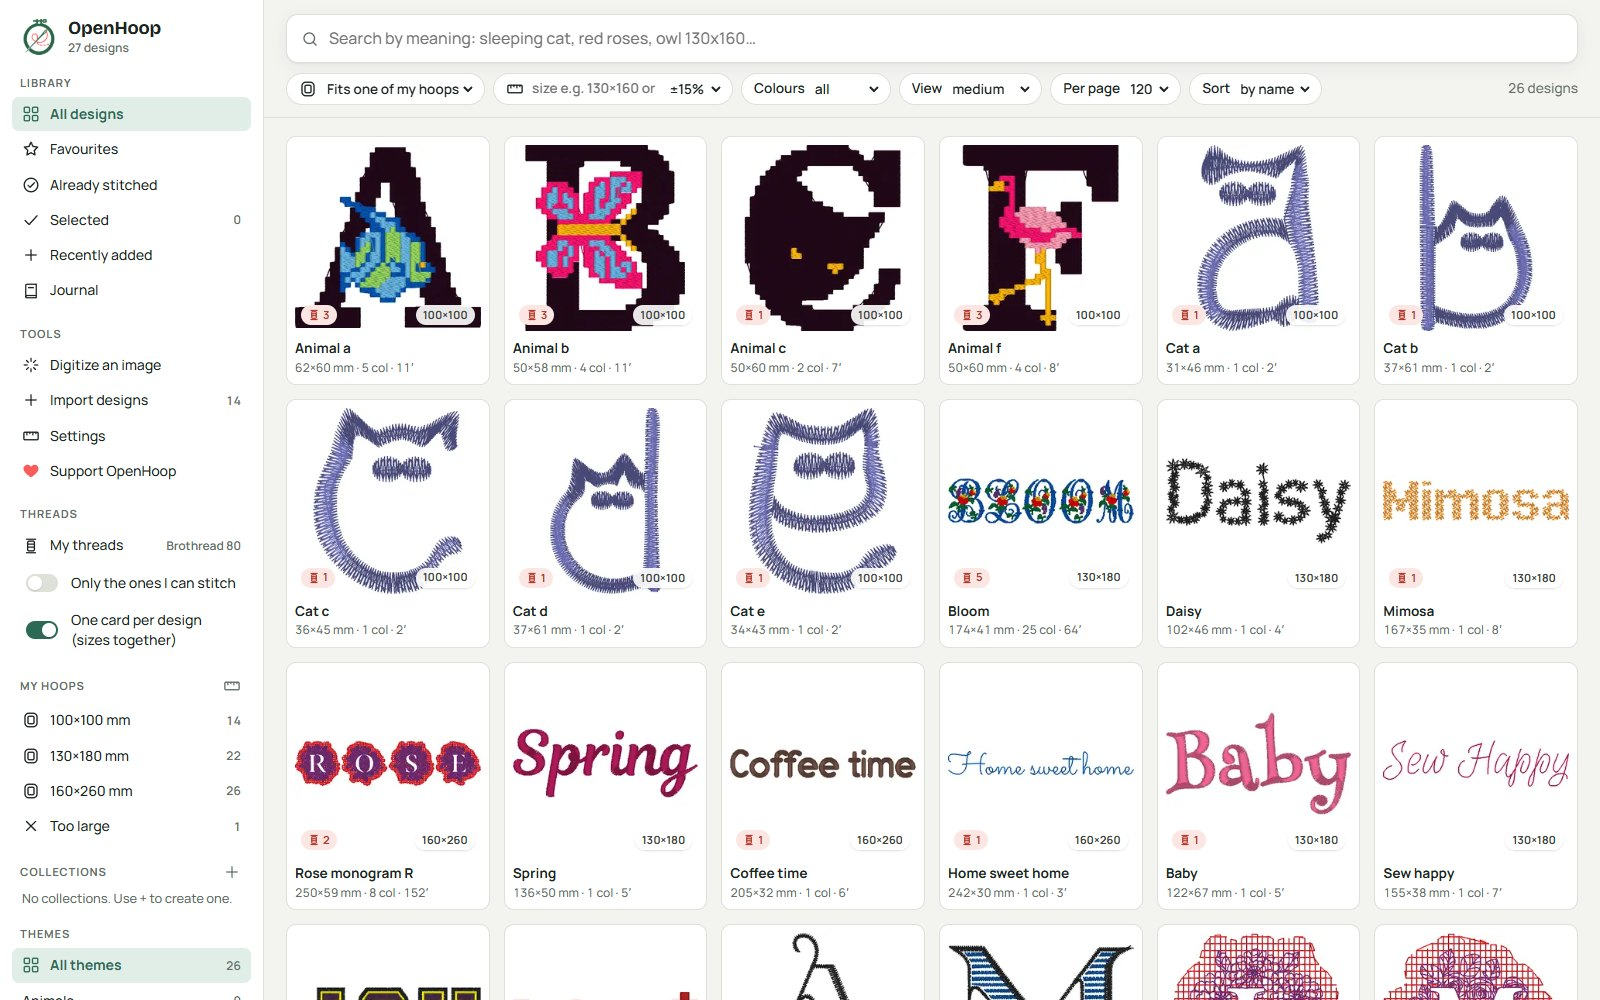
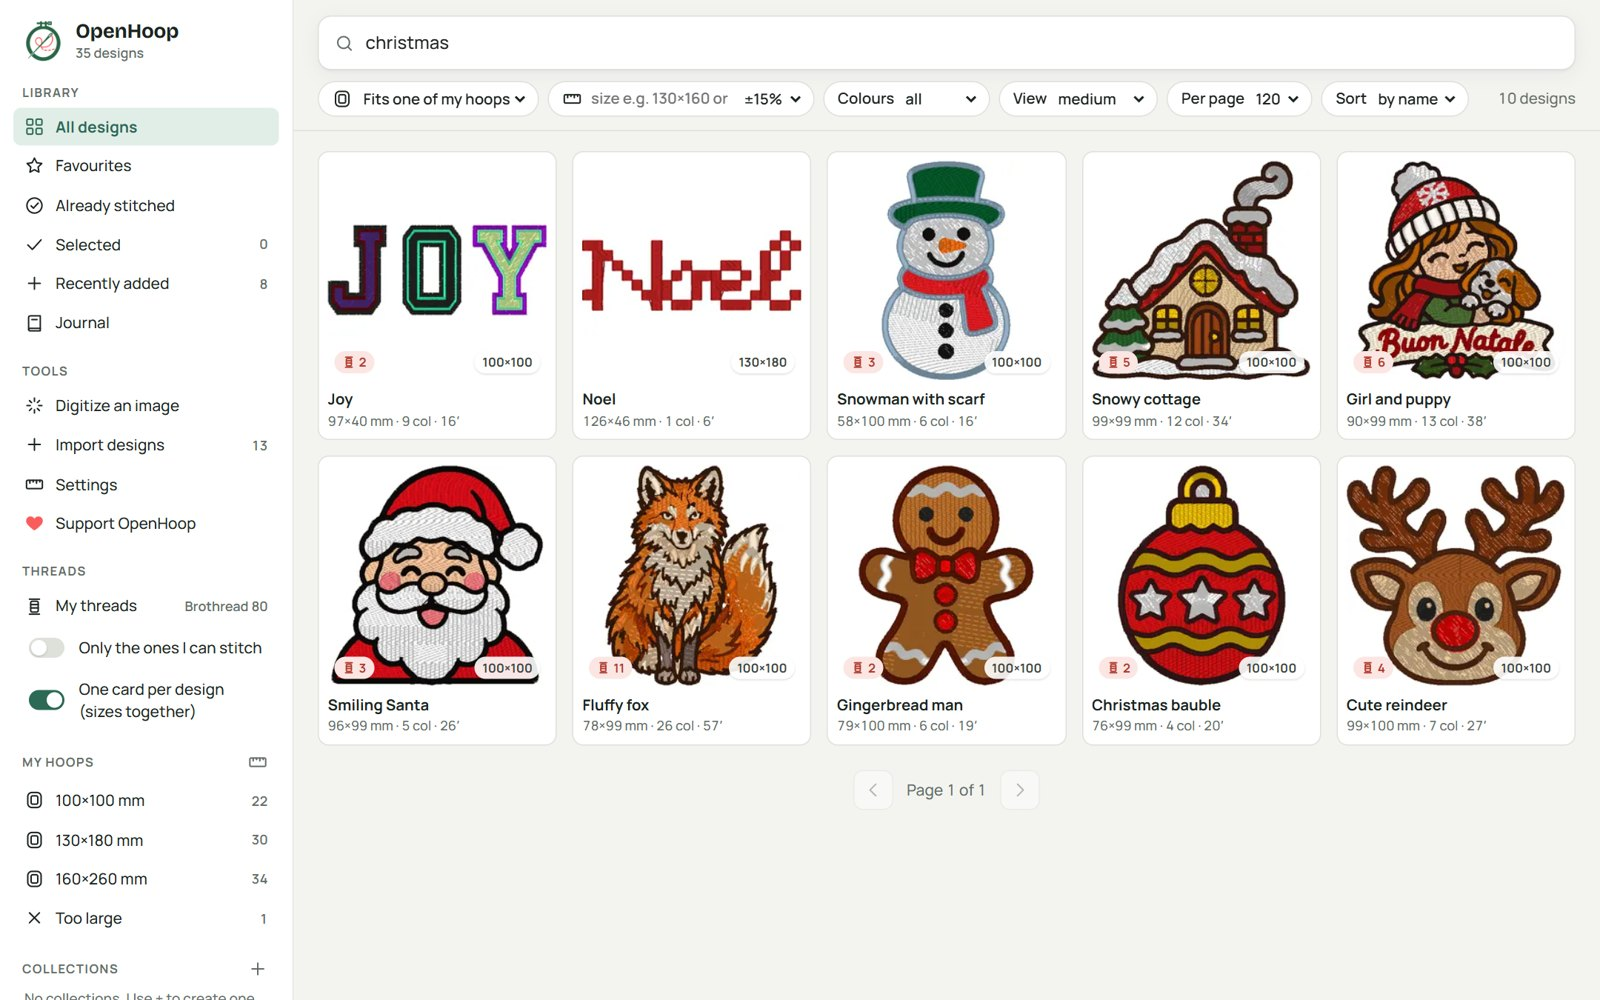
README: animated demo, new library screenshot

diff --git a/README.md b/README.md
@@ -4,7 +4,11 @@
 Tidy up years of downloads, find any design in seconds, and send it to your machine in the right format.<br>
 <i>English · Italiano · Français · Español</i></p>
 
-<p align="center"><a href="https://ko-fi.com/openhoop">☕ Support OpenHoop on Ko-fi</a></p>
+<p align="center"><a href="https://github.com/lelus78/OpenHoop/releases/latest"><b>⬇ Download for Windows (free)</b></a> ·
+<a href="https://ko-fi.com/openhoop">☕ Support OpenHoop on Ko-fi</a></p>
+
+<p align="center"><img src="docs/screenshots/demo.gif" alt="Search «christmas», open a design, point at a part and click to try another thread: the reindeer's antlers turn gold" width="860"><br>
+<sub>Search by meaning, open a design, point at a part and click to try another thread. All designs shown were made with OpenHoop's own digitizer.</sub></p>
 
 ---
 
@@ -65,7 +69,7 @@ From version 1.0.1 OpenHoop tells you when a new version is out and **updates it
 | <img src="docs/screenshots/patch_maker.jpg" alt="Patch maker" width="400"> | <img src="docs/screenshots/digitizer.jpg" alt="Digitizer" width="400"> |
 | **Stitch-by-stitch simulation** | **Settings: folders, machine, hoops** |
 | <img src="docs/screenshots/simulation.jpg" alt="Stitch simulation" width="400"> | <img src="docs/screenshots/settings.jpg" alt="Settings" width="400"> |
-| **Your library, sorted by theme** | **Import: filters, attachments, duplicates flagged** |
+| **Your library: search by meaning** | **Import: filters, attachments, duplicates flagged** |
 | <img src="docs/screenshots/library.jpg" alt="Library grid" width="400"> | <img src="docs/screenshots/import.jpg" alt="Import page with filters" width="400"> |
 | **Duplicates side by side** | **Colour versions of the same design** |
 | <img src="docs/screenshots/duplicates.jpg" alt="Duplicate comparison" width="400"> | <img src="docs/screenshots/colour_versions.jpg" alt="Colour versions in the design card" width="400"> |
